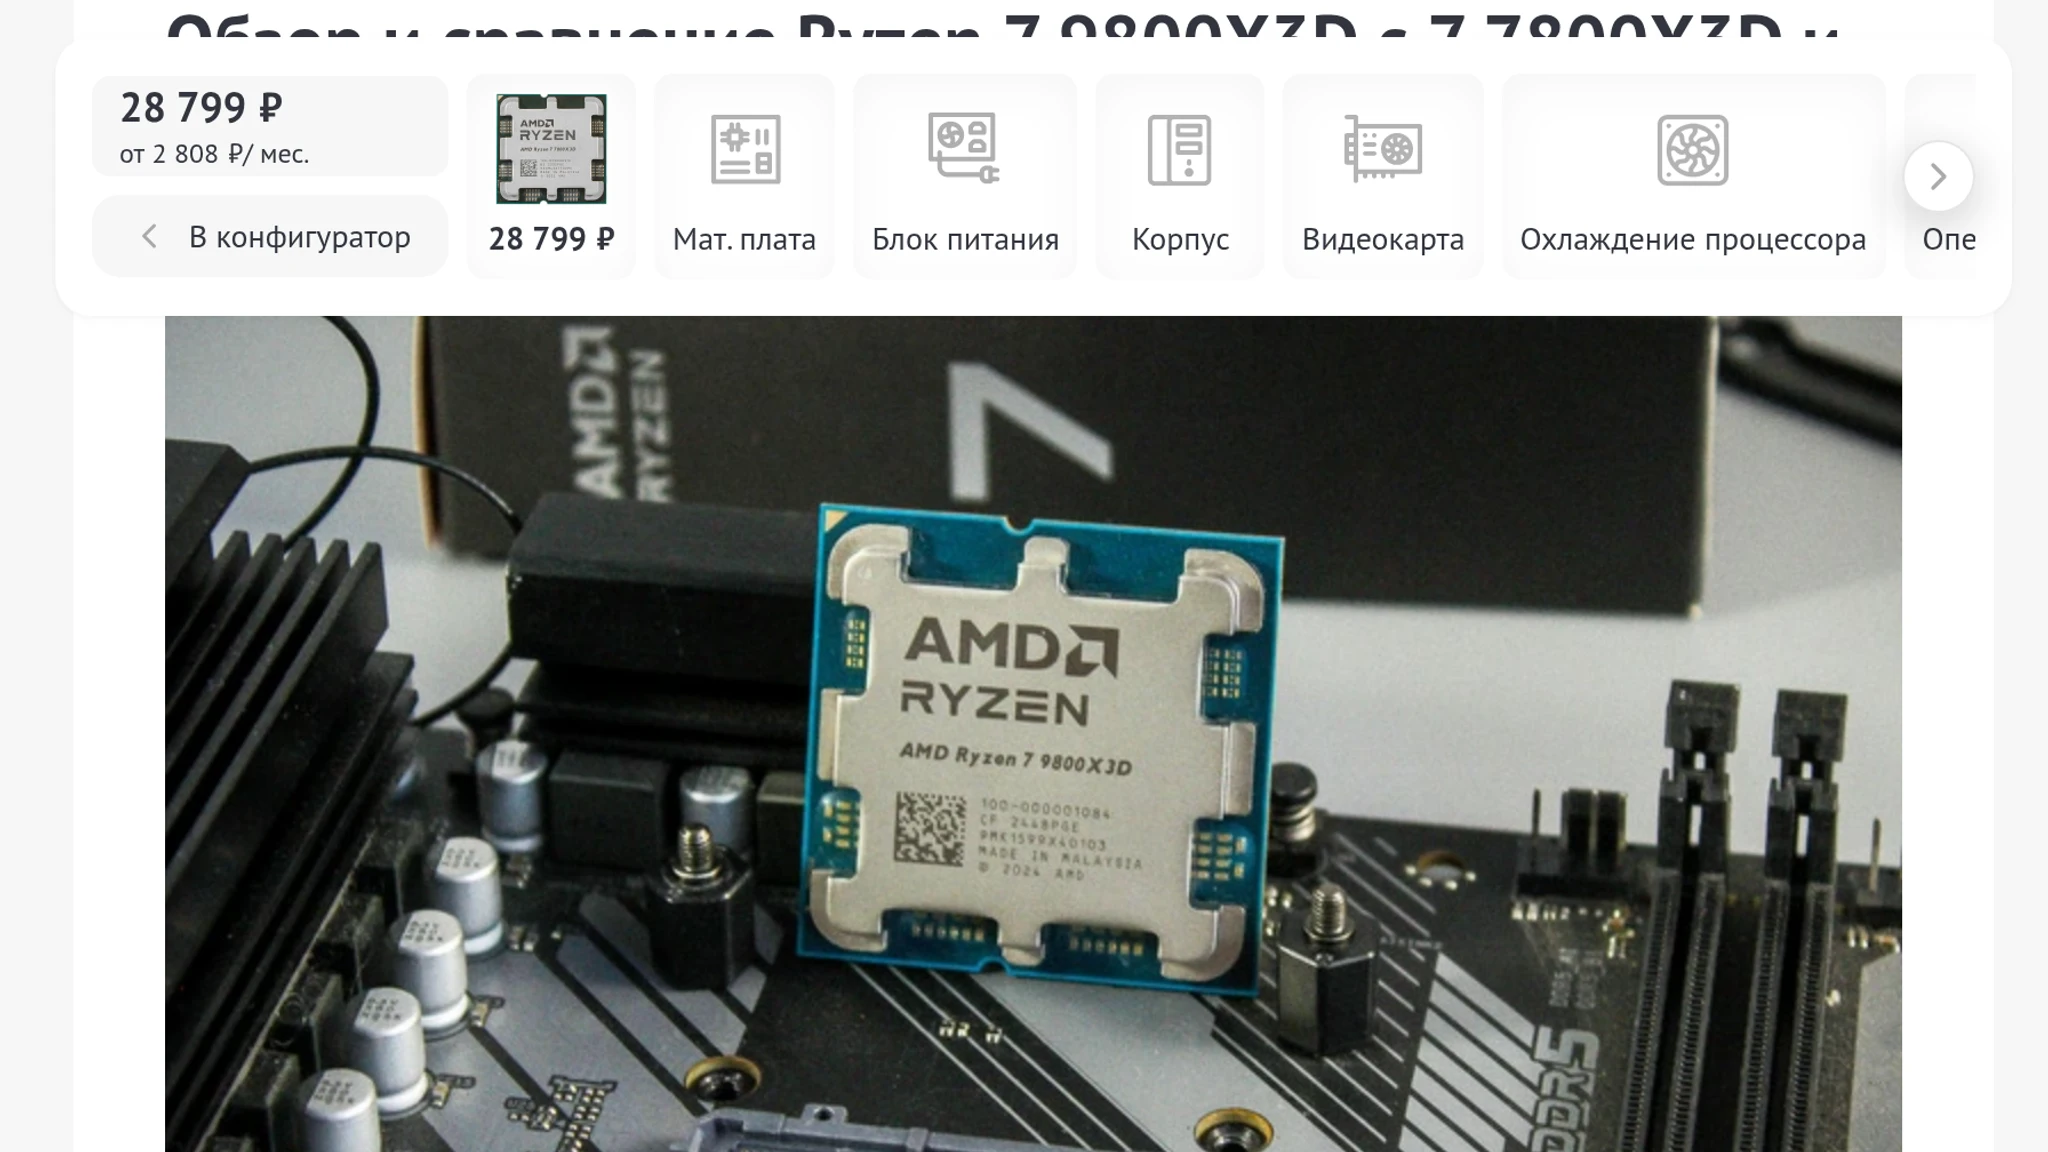
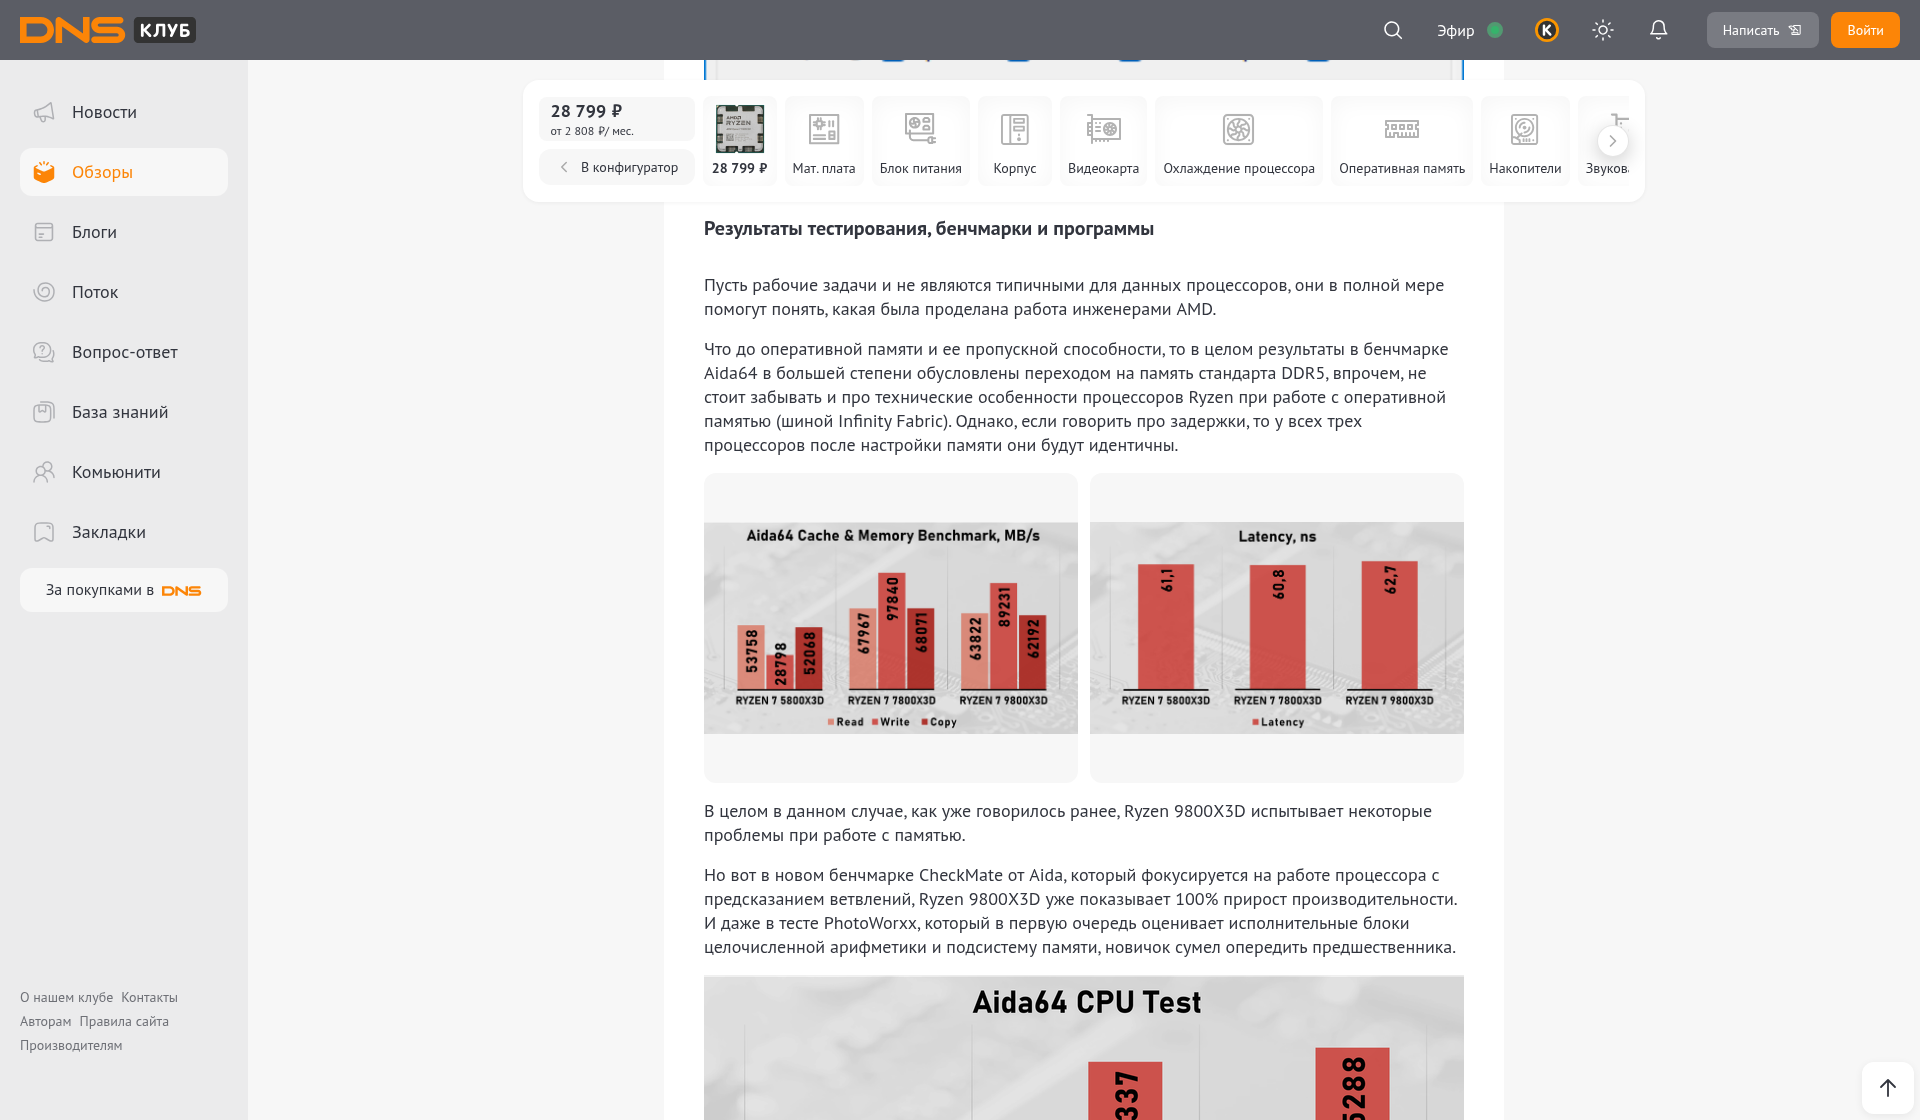
Update the DNS article panel comparison

diff --git a/src/data/dnsCase.ts b/src/data/dnsCase.ts
@@ -259,14 +259,14 @@ export const dnsDecisions: readonly Decision[] = [
       title: 'Панель сборки в статье',
       frames: [
         {
-          src: articlePanelBefore, width: 2048, height: 1152, label: 'Было',
-          alt: 'Заголовок обзора Клуба DNS и фото процессора после прокрутки статьи',
-          caption: 'Заголовок и фото процессора прокручиваются вместе со статьёй',
+          src: articlePanelBefore, width: 1920, height: 1120, label: 'Было',
+          alt: 'Раздел с результатами тестирования процессоров в середине обзора Клуба DNS',
+          caption: 'В разделе с результатами тестирования ещё нет панели сборки и кнопки возврата',
         },
         {
-          src: articlePanelAfter, width: 2048, height: 1152, label: 'Стало',
-          alt: 'В том же месте статьи поверх заголовка и фото закреплена панель с выбранным процессором, суммой и кнопкой «В конфигуратор»',
-          caption: 'При прокрутке панель с выбранным процессором, суммой и кнопкой «В конфигуратор» остаётся поверх статьи',
+          src: articlePanelAfter, width: 1920, height: 1120, label: 'Стало',
+          alt: 'Над результатами тестирования закреплена панель с выбранным процессором, суммой и кнопкой «В конфигуратор»',
+          caption: 'При прокрутке панель остаётся видна. Кнопка «В конфигуратор» возвращает к текущей сборке',
         },
       ],
     },
